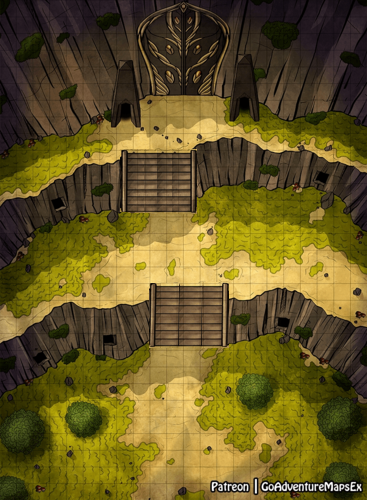
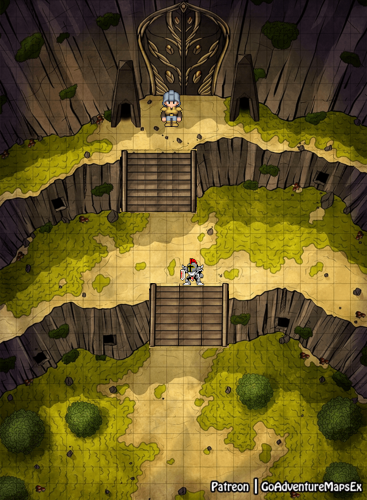
Entrada capital y enemigo guardia de la entrada

Changed region(s): [[0.4196, 0.18, 0.5095, 0.27], [0.4796, 0.51, 0.5695, 0.57]]

diff --git a/Proy_JuegoRol/src/juego/Constantes.java b/Proy_JuegoRol/src/juego/Constantes.java
@@ -27,7 +27,8 @@ public class Constantes {
 	public static final String HOJA_TEXTURAS_1 = "/texturas/001.png";
 	public static final String TEXTURAS_BOSQUE_1 = "/texturas/bosque01.png";
 	public static final String TEXTURAS_ENTRADA_CUEVA = "/texturas/entrada_cueva.png";
-	public static final String TEXTURAS_ENTRADA_CUEVA_2 = "/texturas/entrada_cueva_02.png";
+	public static final String TEXTURAS_ENTRADA_CAPITAL = "/texturas/entrada_cueva_02.png";
+	public static final String TEXTURAS_ENTRADA_CAPITAL_2 = "/texturas/entrada_cueva_02_1.png";
 	public static final String TEXTURAS_ENTRADA_CASTILLO = "/texturas/entrada_castillo.png";
 	public static final String TEXTURAS_MUNDO = "/texturas/reveland.png";
 	public static final String TEXTURAS_PUEBLO = "/texturas/Villa.png";
@@ -52,7 +53,7 @@ public class Constantes {
 	public static final String RECAUDADOR = "/enemigos/recaudador.png";
 	public static final String MISTERIOSO = "/enemigos/misterioso.png";
 	public static final String MANIQUI = "/enemigos/maniqui.png";
-
+	public static final String GUARDIA_ENTRADA_CIUDAD = "/enemigos/guardiaPuerta.png";
 	
 	// MAPAS
 	public static final String MAPA_PRUEBA_1 = "/mapas/prueba/mapa001.txt";
@@ -60,10 +61,9 @@ public class Constantes {
 	public static final String MAPA_PRUEBA_3 = "/mapas/prueba/mapa003.txt";
 	
 	
-	public static final String MAPA_5 = "/mapas/mapa005.txt";
-	public static final String MAPA_6 = "/mapas/mapa006.txt";
+	public static final String MAPA_5 = "/mapas/mapa005.txt";	
 	public static final String MAPA_7 = "/mapas/mapa007.txt";
-	public static final String MAPA_MUNDO = "/mapas/mapa008.txt";
+	public static final String MAPA_MUNDO = "/mapas/mapa_mundo_01.txt";
 	
 	public static final String MAPA_PUEBLO_1 = "/mapas/pueblo/mapa_pueblo_01.txt";
 	public static final String MAPA_PUEBLO_2 = "/mapas/pueblo/mapa_pueblo_02.txt";
@@ -76,6 +76,9 @@ public class Constantes {
 	public static final String CASA_GOBERNADOR_3 = "/mapas/casa_gobernador/mapa_casa_gob_hab_02.txt";
 	public static final String CASA_GOBERNADOR_4 = "/mapas/casa_gobernador/mapa_casa_gob_baja_02.txt";
 	
+	public static final String MAPA_ENTRADA_CAPITAL = "/mapas/capital/mapa_entrada_capital.txt";
+	public static final String MAPA_ENTRADA_CAPITAL_2 = "/mapas/capital/mapa_entrada_capital_2.txt";
+	
 	// MAPAS DE CARGA
 	public static final String MAPA_CARGA_1 = "/mapas/carga/carga1.txt";
 	public static final String MAPA_CARGA_2 = "/mapas/carga/carga2.txt";
@@ -87,6 +90,8 @@ public class Constantes {
 	public static final String MAPA_CARGA_8 = "/mapas/carga/carga8.txt";
 	public static final String MAPA_CARGA_9 = "/mapas/carga/carga9.txt";
 	public static final String MAPA_CARGA_10 = "/mapas/carga/carga10.txt";
+	public static final String MAPA_CARGA_11 = "/mapas/carga/carga11.txt";
+	public static final String MAPA_CARGA_12 = "/mapas/carga/carga12.txt";
 	
 	public static final String MAPA_CARGA_PRUEBA_1 = "/mapas/carga/carga_prueba_1.txt";
 	public static final String MAPA_CARGA_PRUEBA_2 = "/mapas/carga/carga_prueba_2.txt";

diff --git a/Proy_JuegoRol/src/juego/herramientas/ComprobadorDeMapa.java b/Proy_JuegoRol/src/juego/herramientas/ComprobadorDeMapa.java
@@ -49,21 +49,16 @@ public class ComprobadorDeMapa {
 		case "m9":
 			nuevoMapa = Constantes.MAPA_SALIDA_PUEBLO_2;
 			break;
-//		case "m4":
-//			nuevoMapa = Constantes.MAPA_4;
-//			break;
-//		case "m5":
-//			nuevoMapa = Constantes.MAPA_5;
-//			break;
-//		case "m6":
-//			nuevoMapa = Constantes.MAPA_6;
-//			break;
-//		case "m7":
-//			nuevoMapa = Constantes.MAPA_7;
-//			break;
 		case "m10":
 			nuevoMapa = Constantes.MAPA_MUNDO;
 			break;
+		case "m11":
+			nuevoMapa = Constantes.MAPA_ENTRADA_CAPITAL;
+			break;
+		case "m12":
+			nuevoMapa = Constantes.MAPA_ENTRADA_CAPITAL_2;
+			break;
+
 
 		case "m1002":
 			nuevoMapa = Constantes.MAPA_PRUEBA_1;
@@ -117,18 +112,21 @@ public class ComprobadorDeMapa {
 		case Constantes.MAPA_SALIDA_PUEBLO:
 			jugador.getEstadisticas().cambiarMapa(8);
 			break;
-		case Constantes.MAPA_MUNDO:
+		case Constantes.MAPA_SALIDA_PUEBLO_2:
 			jugador.getEstadisticas().cambiarMapa(9);
 			break;
-//		case Constantes.MAPA_5:
-//			jugador.getEstadisticas().cambiarMapa(5);
-//			break;
-//		case Constantes.MAPA_6:
-//			jugador.getEstadisticas().cambiarMapa(6);
-//			break;
-//		case Constantes.MAPA_7:
-//			jugador.getEstadisticas().cambiarMapa(7);
-//			break;
+		case Constantes.MAPA_MUNDO:
+			jugador.getEstadisticas().cambiarMapa(10);
+			break;
+			
+		// CAPITAL
+		case Constantes.MAPA_ENTRADA_CAPITAL:
+			jugador.getEstadisticas().cambiarMapa(11);
+			break;
+		case Constantes.MAPA_ENTRADA_CAPITAL_2:
+			jugador.getEstadisticas().cambiarMapa(12);
+			break;	
+
 
 		// MAPAS DE PRUEBA
 		case Constantes.MAPA_PRUEBA_1:

diff --git a/Proy_JuegoRol/src/juego/herramientas/SeleccionadorHojaSprite.java b/Proy_JuegoRol/src/juego/herramientas/SeleccionadorHojaSprite.java
@@ -31,7 +31,7 @@ public class SeleccionadorHojaSprite {
 			hs = new HojaSprites(Constantes.TEXTURAS_ENTRADA_CUEVA, 32, true);
 			break;
 		case "3":
-			hs = new HojaSprites(Constantes.TEXTURAS_ENTRADA_CUEVA_2, 32, true);
+			hs = new HojaSprites(Constantes.TEXTURAS_ENTRADA_CAPITAL, 32, true);
 			break;
 		case "4":
 			hs = new HojaSprites(Constantes.TEXTURAS_ENTRADA_CASTILLO, 32, true);
@@ -53,6 +53,9 @@ public class SeleccionadorHojaSprite {
 			break;
 		case "10":
 			hs = new HojaSprites(Constantes.TEXTURAS_CASA_GOBERNADOR_HABITACION_2, 32, true);
+			break;
+		case "11":
+			hs = new HojaSprites(Constantes.TEXTURAS_ENTRADA_CAPITAL_2, 32, true);
 			break;
 		default:
 			break;

diff --git a/Proy_JuegoRol/src/juego/guardado_cargado/CargarPartida.java b/Proy_JuegoRol/src/juego/guardado_cargado/CargarPartida.java
@@ -80,6 +80,12 @@ public class CargarPartida {
 		case 10:
 			textoMapa = Constantes.MAPA_CARGA_10;
 			break;
+		case 11:
+			textoMapa = Constantes.MAPA_CARGA_11;
+			break;
+		case 12:
+			textoMapa = Constantes.MAPA_CARGA_12;
+			break;
 
 		// LOS DE PRUEBA
 		case 1002:
